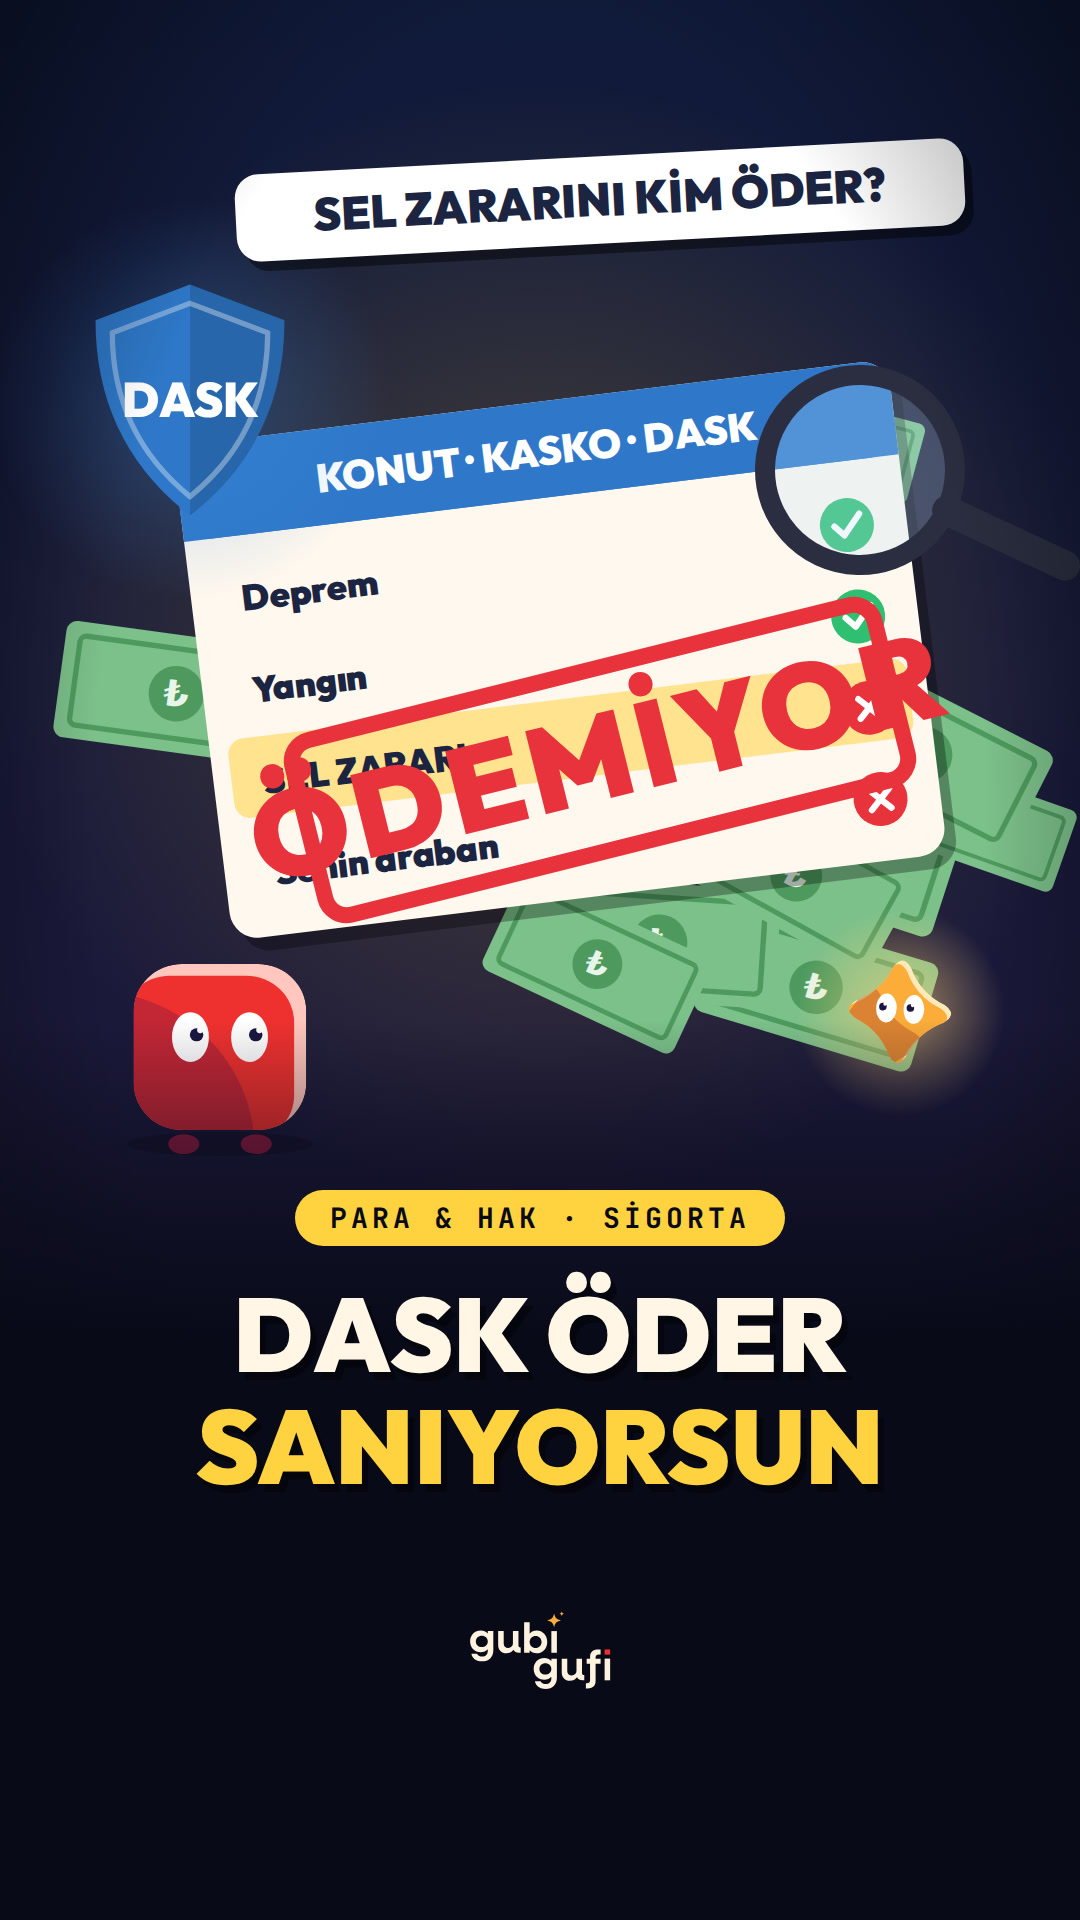
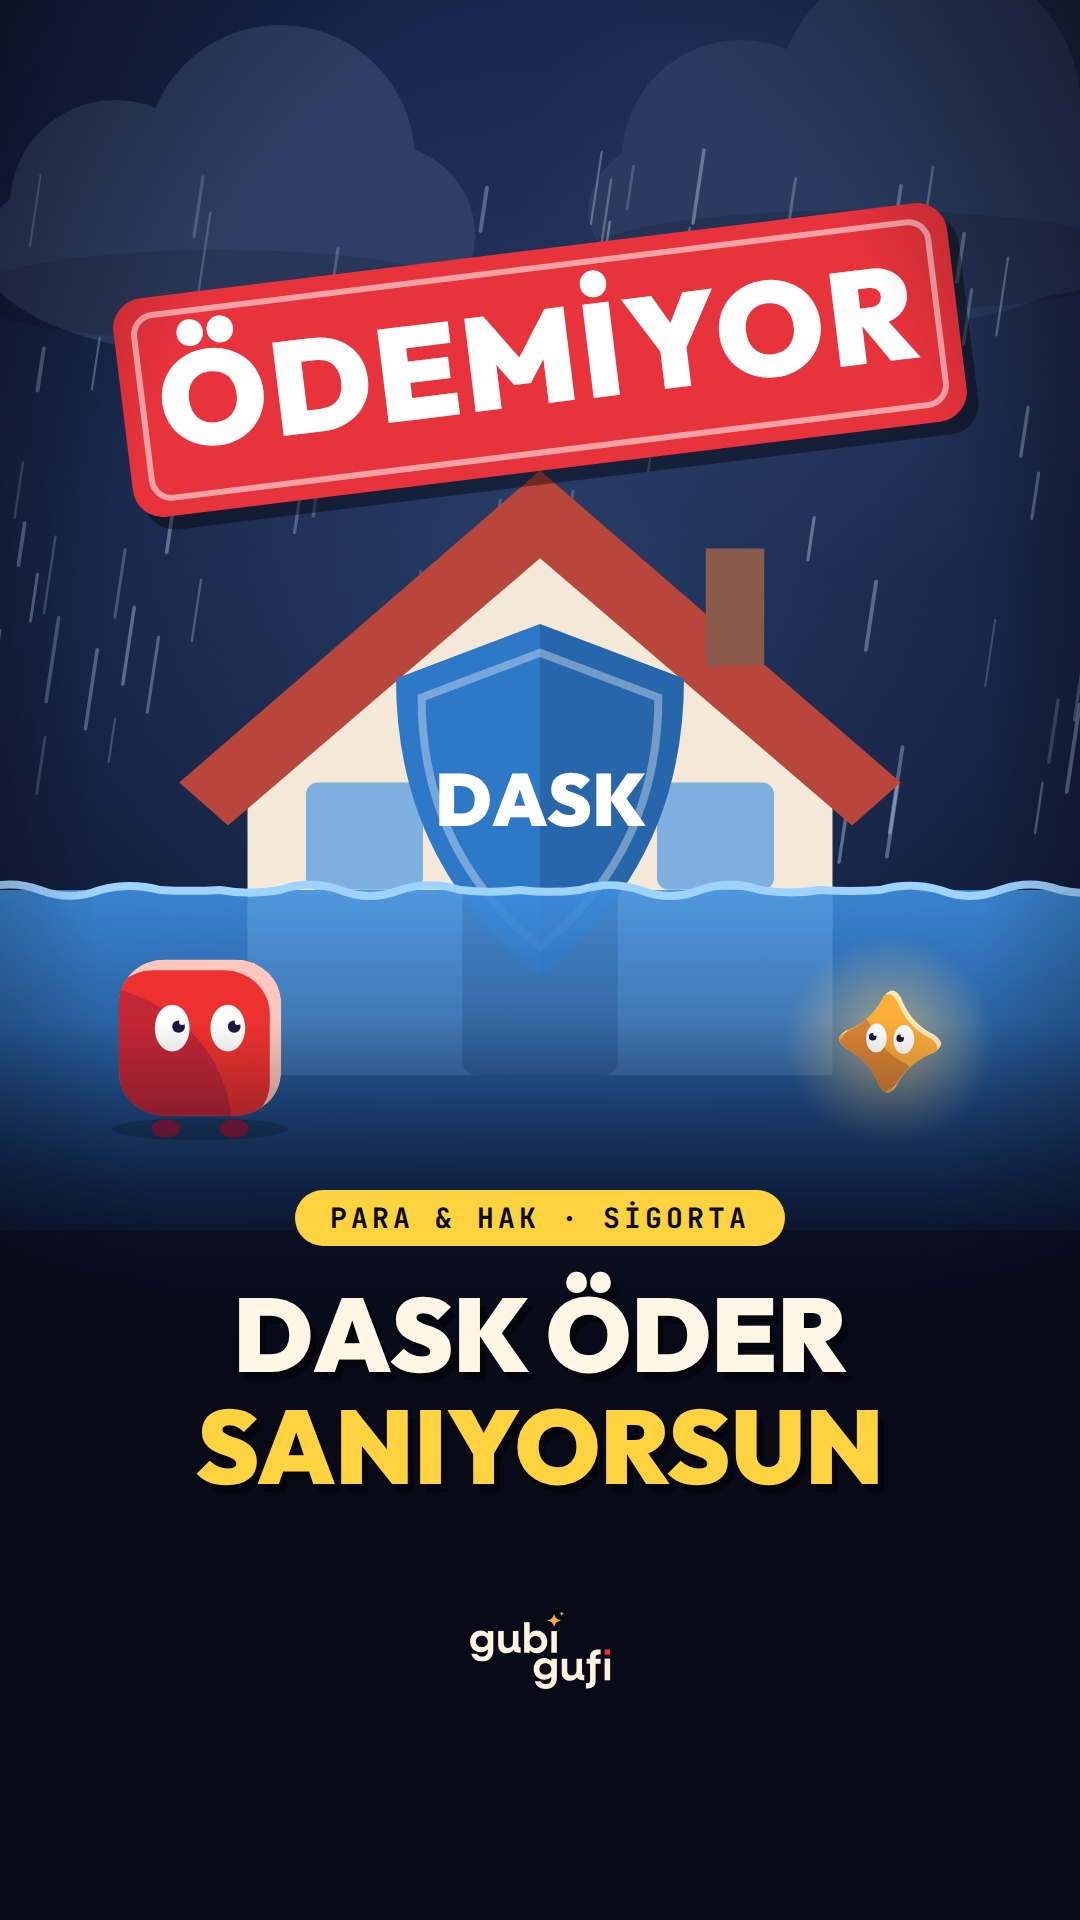
#37 kapak sadeleştirildi: tek odak (su basan ev + DASK kalkanı + ÖDEMİYOR damgası)
Claude-Session: https://claude.ai/code/session_01XpFWe2qV8RD24ed2Fkasje

diff --git a/gubigufi/2026-10-16/37-dask-odemez/kaynak/sahneler/kapak.html b/gubigufi/2026-10-16/37-dask-odemez/kaynak/sahneler/kapak.html
@@ -35,15 +35,16 @@ const deprem = (x, y, s = 1) => `<g transform="translate(${x} ${y}) scale(${s})"
 const sticker = (s, x, y, fs, zem, yazi, rot) => { const w = K.yaziGen(s, fs) + 70; return `<g transform="translate(${x} ${y}) rotate(${rot})">` + R(-w / 2 + 8, -fs * .95 + 10, w, fs * 1.9, 24, '#000', .45) + R(-w / 2, -fs * .95, w, fs * 1.9, 24, zem) + txt(s, 0, fs * .35, fs, yazi) + '</g>'; };
 const para = (x, y, r, s = 1) => `<g transform="translate(${x} ${y}) rotate(${r}) scale(${s})"><rect x="-110" y="-55" width="220" height="110" rx="10" fill="#7CC08A"/><rect x="-96" y="-42" width="192" height="84" rx="6" fill="none" stroke="#4E9A5E" stroke-width="5"/><circle r="26" fill="#4E9A5E"/><text y="12" font-size="34" font-weight="900" text-anchor="middle" style="fill:#E8F5EA">₺</text></g>`;
 window.renderAt = t => {
-  const g = gid('g'); let o = `<defs>${lin(g, '#101A3A', '#24183A')}</defs><rect width="1080" height="1920" fill="url(#${g})"/>`;
-  o += isik(540, 640, 560, '#FFD23F', .22);
-  for (let i = 0; i < 9; i++) o += para(80 + h(i) * 920, 300 + h(i + 4) * 700, -30 + 60 * h(i + 2), .7 + .4 * h(i + 6));
-  o += `<g transform="translate(560 650) rotate(-7)">` + police(0, 0, 720, 'KONUT · KASKO · DASK', [['Deprem', 1], ['Yangın', 1], ['SEL ZARARI', 0], ['Senin araban', 0]], '#2E78C8', 2, 1) + '</g>';
-  o += isik(190, 400, 200, '#3E8EDE', .35) + daskKalkan(190, 400, 1.05);
-  o += `<g transform="translate(600 760) rotate(-14)"><rect x="-300" y="-90" width="600" height="180" rx="22" fill="none" stroke="#E8323C" stroke-width="16"/><text x="0" y="40" font-size="120" font-weight="900" text-anchor="middle" style="fill:#E8323C" letter-spacing="6">ÖDEMİYOR</text></g>`;
-  o += `<g transform="translate(860 470) rotate(-20)"><circle r="95" fill="#BFE0FF" opacity=".25"/><circle r="95" fill="none" stroke="#2A2E40" stroke-width="20"/><path d="M68 68 L160 160" stroke="#2A2E40" stroke-width="30" stroke-linecap="round"/></g>`;
-  o += M.canli('gufi', { t: 1, x: 220, y: 1140, boy: 170, duygu: 'saskin', bakHedef: [560, 700] }) + M.canli('gubi', { t: 1, x: 900, y: 1010, boy: 110, duygu: 'saskin', bakHedef: [560, 700] });
-  o += sticker('SEL ZARARINI KİM ÖDER?', 600, 200, 46, '#FFFFFF', '#1B2440', -3);
+  const g = gid('g'); let o = `<defs>${lin(g, '#16244A', '#0B1226')}</defs><rect width="1080" height="1920" fill="url(#${g})"/>`;
+  o += isik(540, 560, 620, '#5A86C8', .30) + isik(900, 200, 380, '#8FA8D8', .12);
+  o += SL.bulut(220, 250, 1.5, '#2E3E64') + SL.bulut(860, 210, 1.7, '#2A3A60') + yagmur(70, 140, 820, .38);
+  // kahraman: su basan ev + DASK kalkanı
+  o += ev(540, 1075, 1.95);
+  o += daskKalkan(540, 800, 1.6);
+  o += `<defs>${lin('suG', '#3E8EDE', '#12356A')}</defs><rect x="0" y="890" width="1080" height="340" fill="url(#suG)" opacity=".9"/>` + SE.dalga(890, .7, '#9ED2FF', 8, 12);
+  // damga: düz kırmızı, beyaz yazı — okunaklı, hiçbir şeyin üstüne bindirilmiş metin yok
+  o += `<g transform="translate(540 360) rotate(-7)">` + R(-420 + 10, -110 + 14, 840, 220, 30, '#000', .4) + R(-420, -110, 840, 220, 30, '#E8323C') + `<rect x="-400" y="-92" width="800" height="184" rx="20" fill="none" stroke="#FFFFFF" stroke-opacity=".55" stroke-width="6"/>` + txt('ÖDEMİYOR', 0, 44, 132, '#FFFFFF', 900, 'letter-spacing="4"') + '</g>';
+  o += M.canli('gufi', { t: 1, x: 200, y: 1125, boy: 160, duygu: 'saskin', bakHedef: [540, 760] }) + M.canli('gubi', { t: 1, x: 890, y: 1040, boy: 110, duygu: 'saskin', bakHedef: [540, 760] });
   o += vinyet() + altBant('#FFD23F', 'PARA & HAK · SİGORTA', 'DASK ÖDER', 'SANIYORSUN', '#FFD23F') + logo();
   document.getElementById('dinamik').innerHTML = o;
 };
